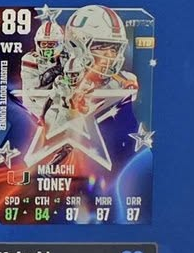
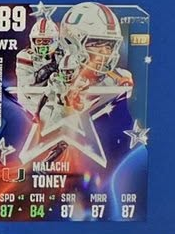
Tighten Team Manager card crops

diff --git a/src/operation_pancake/c3po_roster_page.py b/src/operation_pancake/c3po_roster_page.py
@@ -20,7 +20,7 @@ LINEUP_STYLE = """
 .lineup-tabs{display:flex;gap:32px;border-bottom:1px solid #26303b;margin:0 0 12px;padding:0 2px}.lineup-tabs button{appearance:none;background:none;border:0;position:relative;padding:11px 0 9px;color:#91a0b0;font:inherit;font-size:12px;font-weight:900;letter-spacing:.05em;white-space:nowrap;cursor:pointer}.lineup-tabs button.active{color:#f5f7fa}.lineup-tabs button.active:after{content:"";position:absolute;left:0;right:0;bottom:-1px;height:2px;background:#f5b642}
 .roster-view{display:none;margin:0 0 18px}.roster-view.active{display:block}.section-heading{margin:0 0 8px;border:0}.section-heading h2{font-size:12px;margin:0;color:#f5b642;letter-spacing:.12em}
 .position-grid{display:grid;grid-template-columns:repeat(6,minmax(0,1fr));gap:26px 12px;align-items:stretch}.specialists-grid{grid-template-columns:repeat(5,minmax(0,1fr))}.position-group{min-width:0}.position-group h3{height:18px;margin:0 0 5px;color:#91a0b0;font-size:11px;font-weight:500;line-height:18px;text-align:center}
-.feature-card{aspect-ratio:3/4;position:relative;overflow:hidden;padding:0;background:linear-gradient(145deg,#243246 0%,#15202d 48%,#0d141d 100%);border:1px solid #3b495a;border-radius:3px;box-shadow:0 5px 14px #0004}.feature-card:before{content:"";position:absolute;inset:0;background:linear-gradient(135deg,transparent 48%,#f5b64212 49%,transparent 52%);pointer-events:none}.feature-art{position:absolute;inset:0;width:100%;height:100%;object-fit:contain;object-position:top center}.feature-slot{position:relative;z-index:2;font-size:9px;line-height:12px;color:#a9b7c7;text-shadow:0 1px 3px #000}.feature-copy{position:absolute;z-index:2;left:9px;right:9px;bottom:10px;display:grid;gap:3px}.feature-program{font-size:8px;line-height:10px;color:#9eabb9;text-transform:uppercase;text-shadow:0 1px 3px #000}.feature-program.program-missing{color:#718091}
+.feature-card{aspect-ratio:3/4;position:relative;overflow:hidden;padding:0;background:linear-gradient(145deg,#243246 0%,#15202d 48%,#0d141d 100%);border:1px solid #3b495a;border-radius:3px;box-shadow:0 5px 14px #0004}.feature-card:before{content:"";position:absolute;inset:0;background:linear-gradient(135deg,transparent 48%,#f5b64212 49%,transparent 52%);pointer-events:none}.feature-art{position:absolute;inset:0;width:100%;height:100%;object-fit:contain;object-position:top center}.feature-slot{position:relative;z-index:2;font-size:9px;line-height:12px;color:#a9b7c7;text-shadow:0 1px 3px #000}.feature-copy{position:absolute;z-index:2;left:9px;right:9px;bottom:10px;display:grid;gap:3px}.feature-program{font-size:8px;line-height:10px;color:#9eabb9;text-transform:uppercase;text-shadow:0 1px 3px #000}.feature-program.program-missing{color:#718091}.feature-card:has(.feature-art) .feature-slot,.feature-card:has(.feature-art) .feature-copy{display:none}.feature-card:has(.feature-art):before{display:none}
 .player-list{display:grid;gap:5px;margin-top:7px}.player-choice{appearance:none;width:100%;border:1px solid transparent;border-radius:2px;background:#3a4149;color:#fff;padding:7px 8px;display:grid;grid-template-columns:minmax(0,1fr) auto;gap:3px 7px;text-align:left;cursor:pointer;font:inherit}.player-choice:hover{background:#444d57}.player-choice.selected{border-color:#f5b642;background:#454b52}.choice-name{grid-column:1;grid-row:1;font-size:10px;line-height:12px;font-weight:900;text-transform:uppercase;overflow-wrap:normal}.choice-name-long{font-size:8px;line-height:10px}.choice-ovr{grid-column:2;grid-row:1;font-size:13px;line-height:13px;font-weight:900;text-align:right;white-space:nowrap}.choice-program{grid-column:1/3;grid-row:2;font-size:7px;line-height:8px;color:#b1bbc6;text-transform:uppercase}.choice-program.program-missing{color:#778593}.empty-view{grid-column:1/-1;color:#697888}
 @media(max-width:820px){.position-grid,.specialists-grid{grid-template-columns:repeat(3,minmax(0,1fr))}.feature-card{height:165px}}@media(max-width:620px){.position-grid,.specialists-grid{grid-template-columns:repeat(2,minmax(0,1fr))}.lineup-tabs{gap:18px;overflow-x:auto}.team-header{grid-template-columns:1fr}.team-header .update-team{grid-column:1;grid-row:auto;justify-self:start}.feature-card{height:155px}}@media(max-width:420px){.position-grid,.specialists-grid{grid-template-columns:1fr}.feature-card{height:145px}.lineup-tabs{gap:14px}}
 </style>
